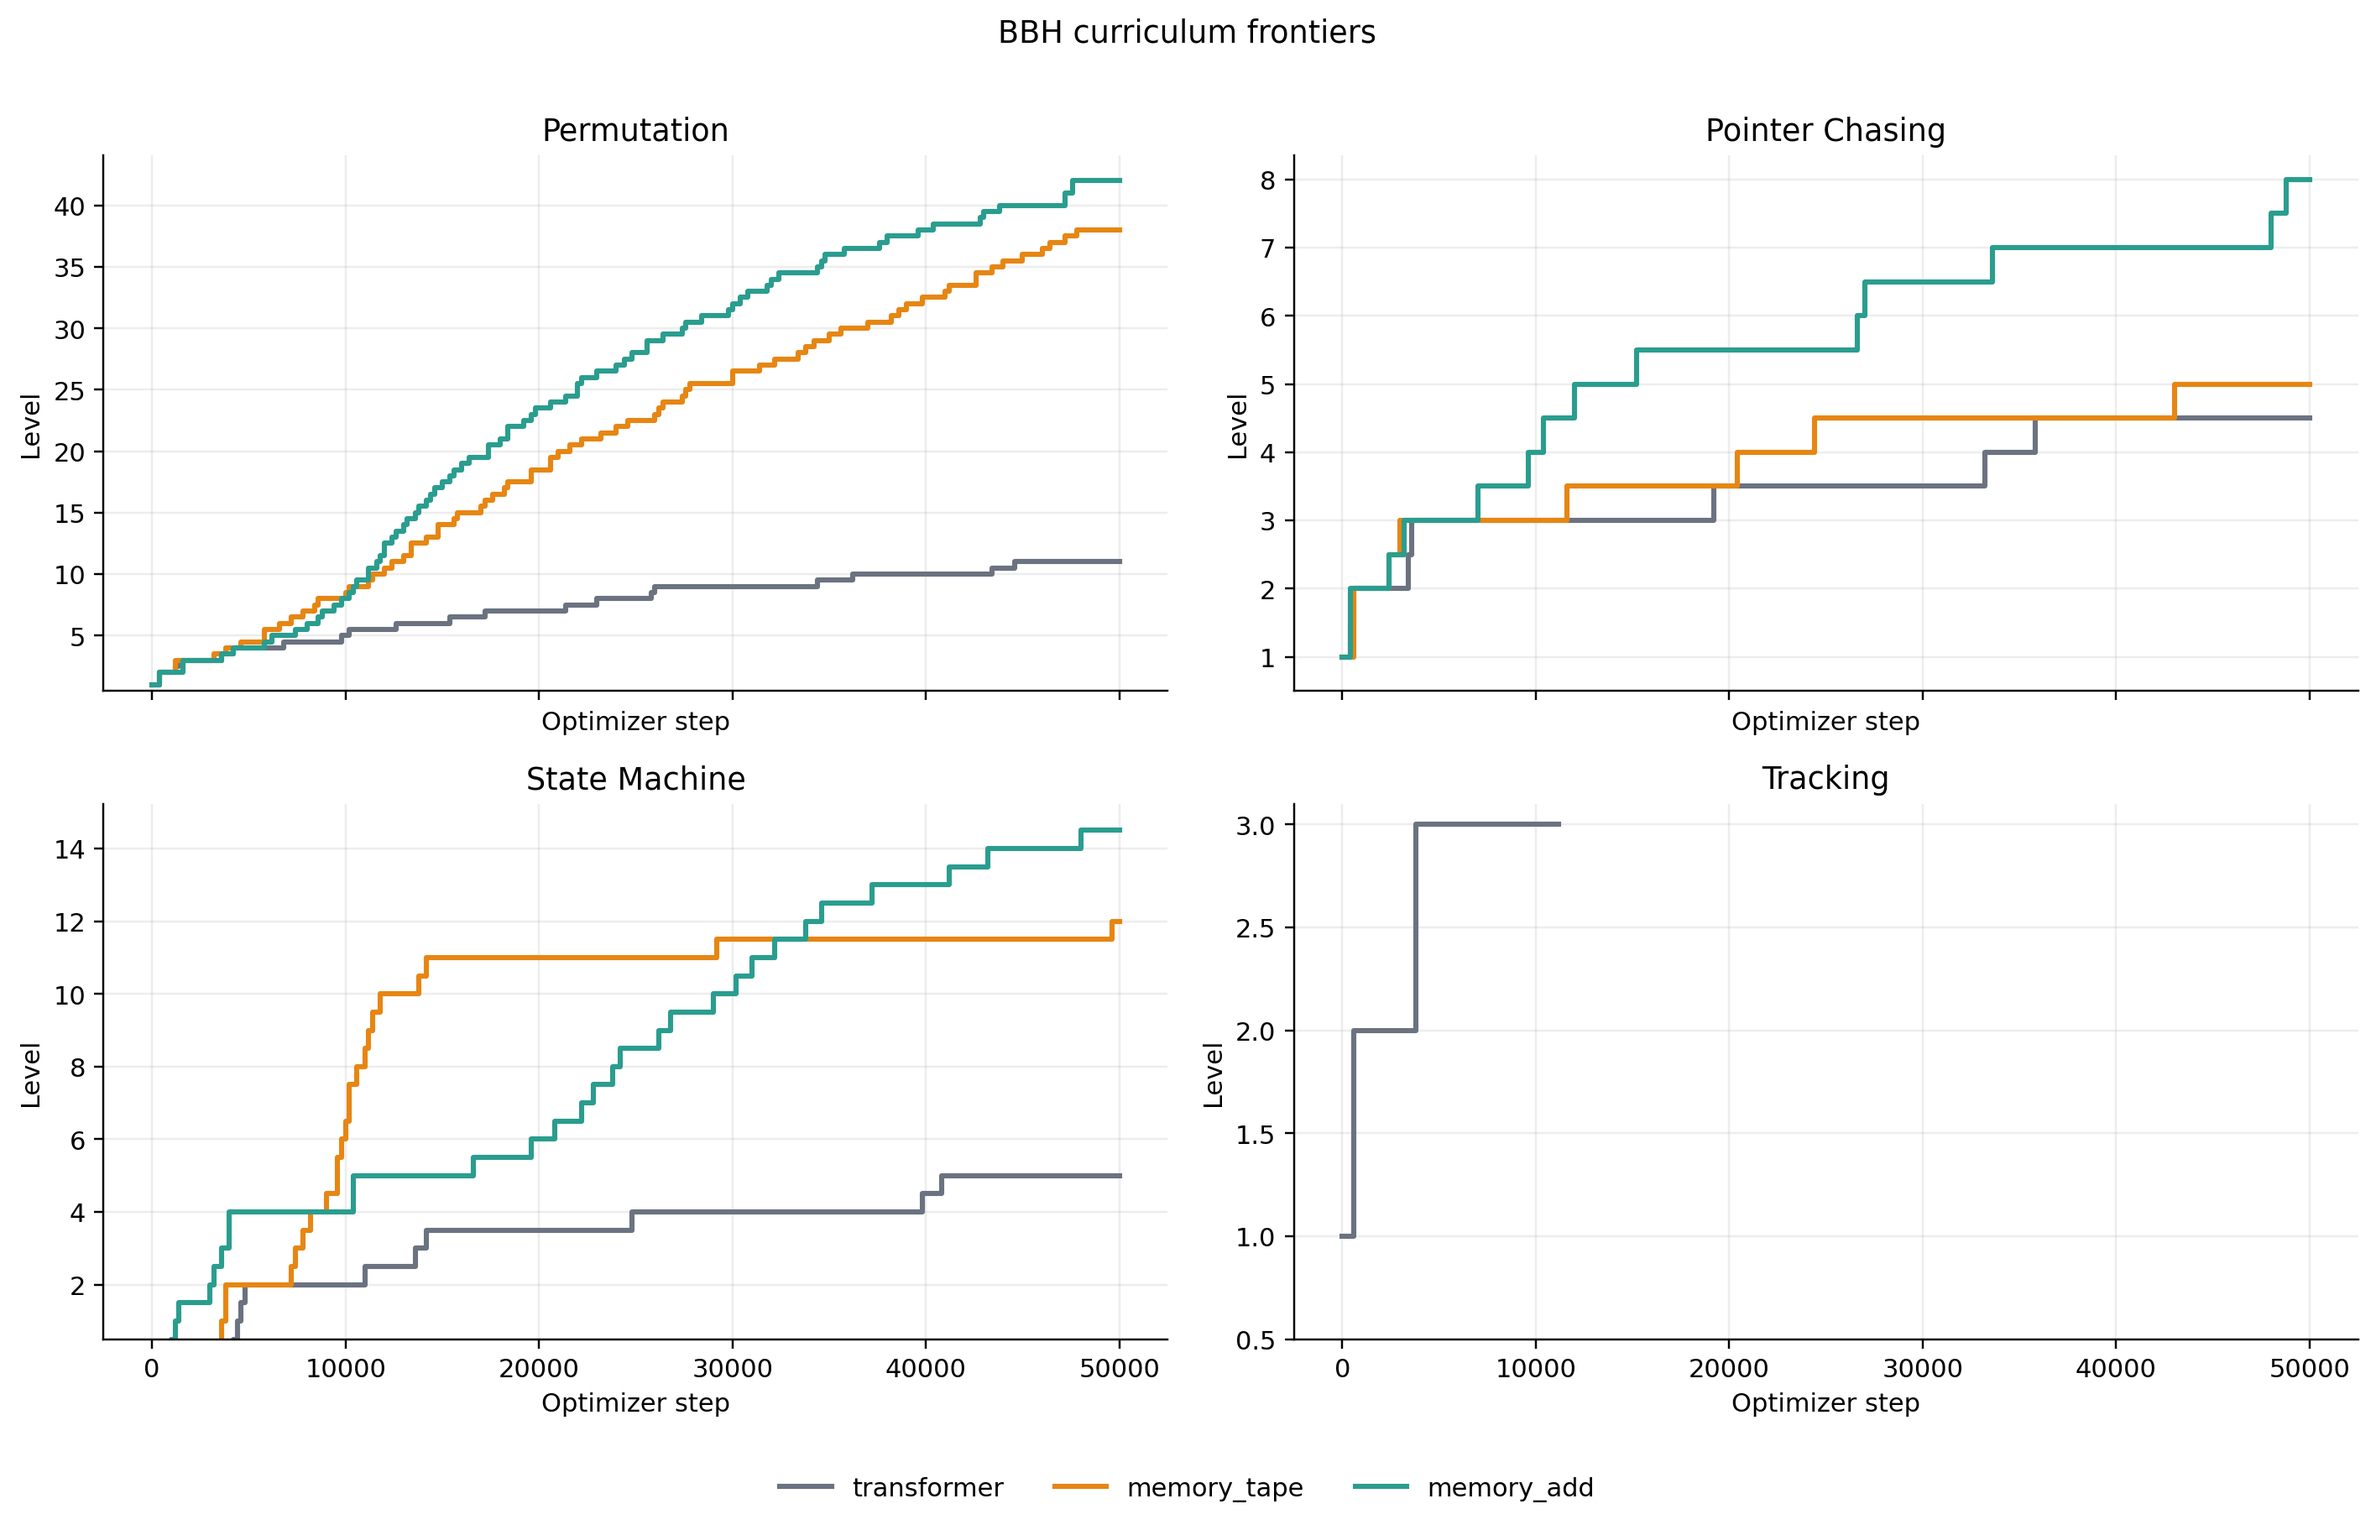
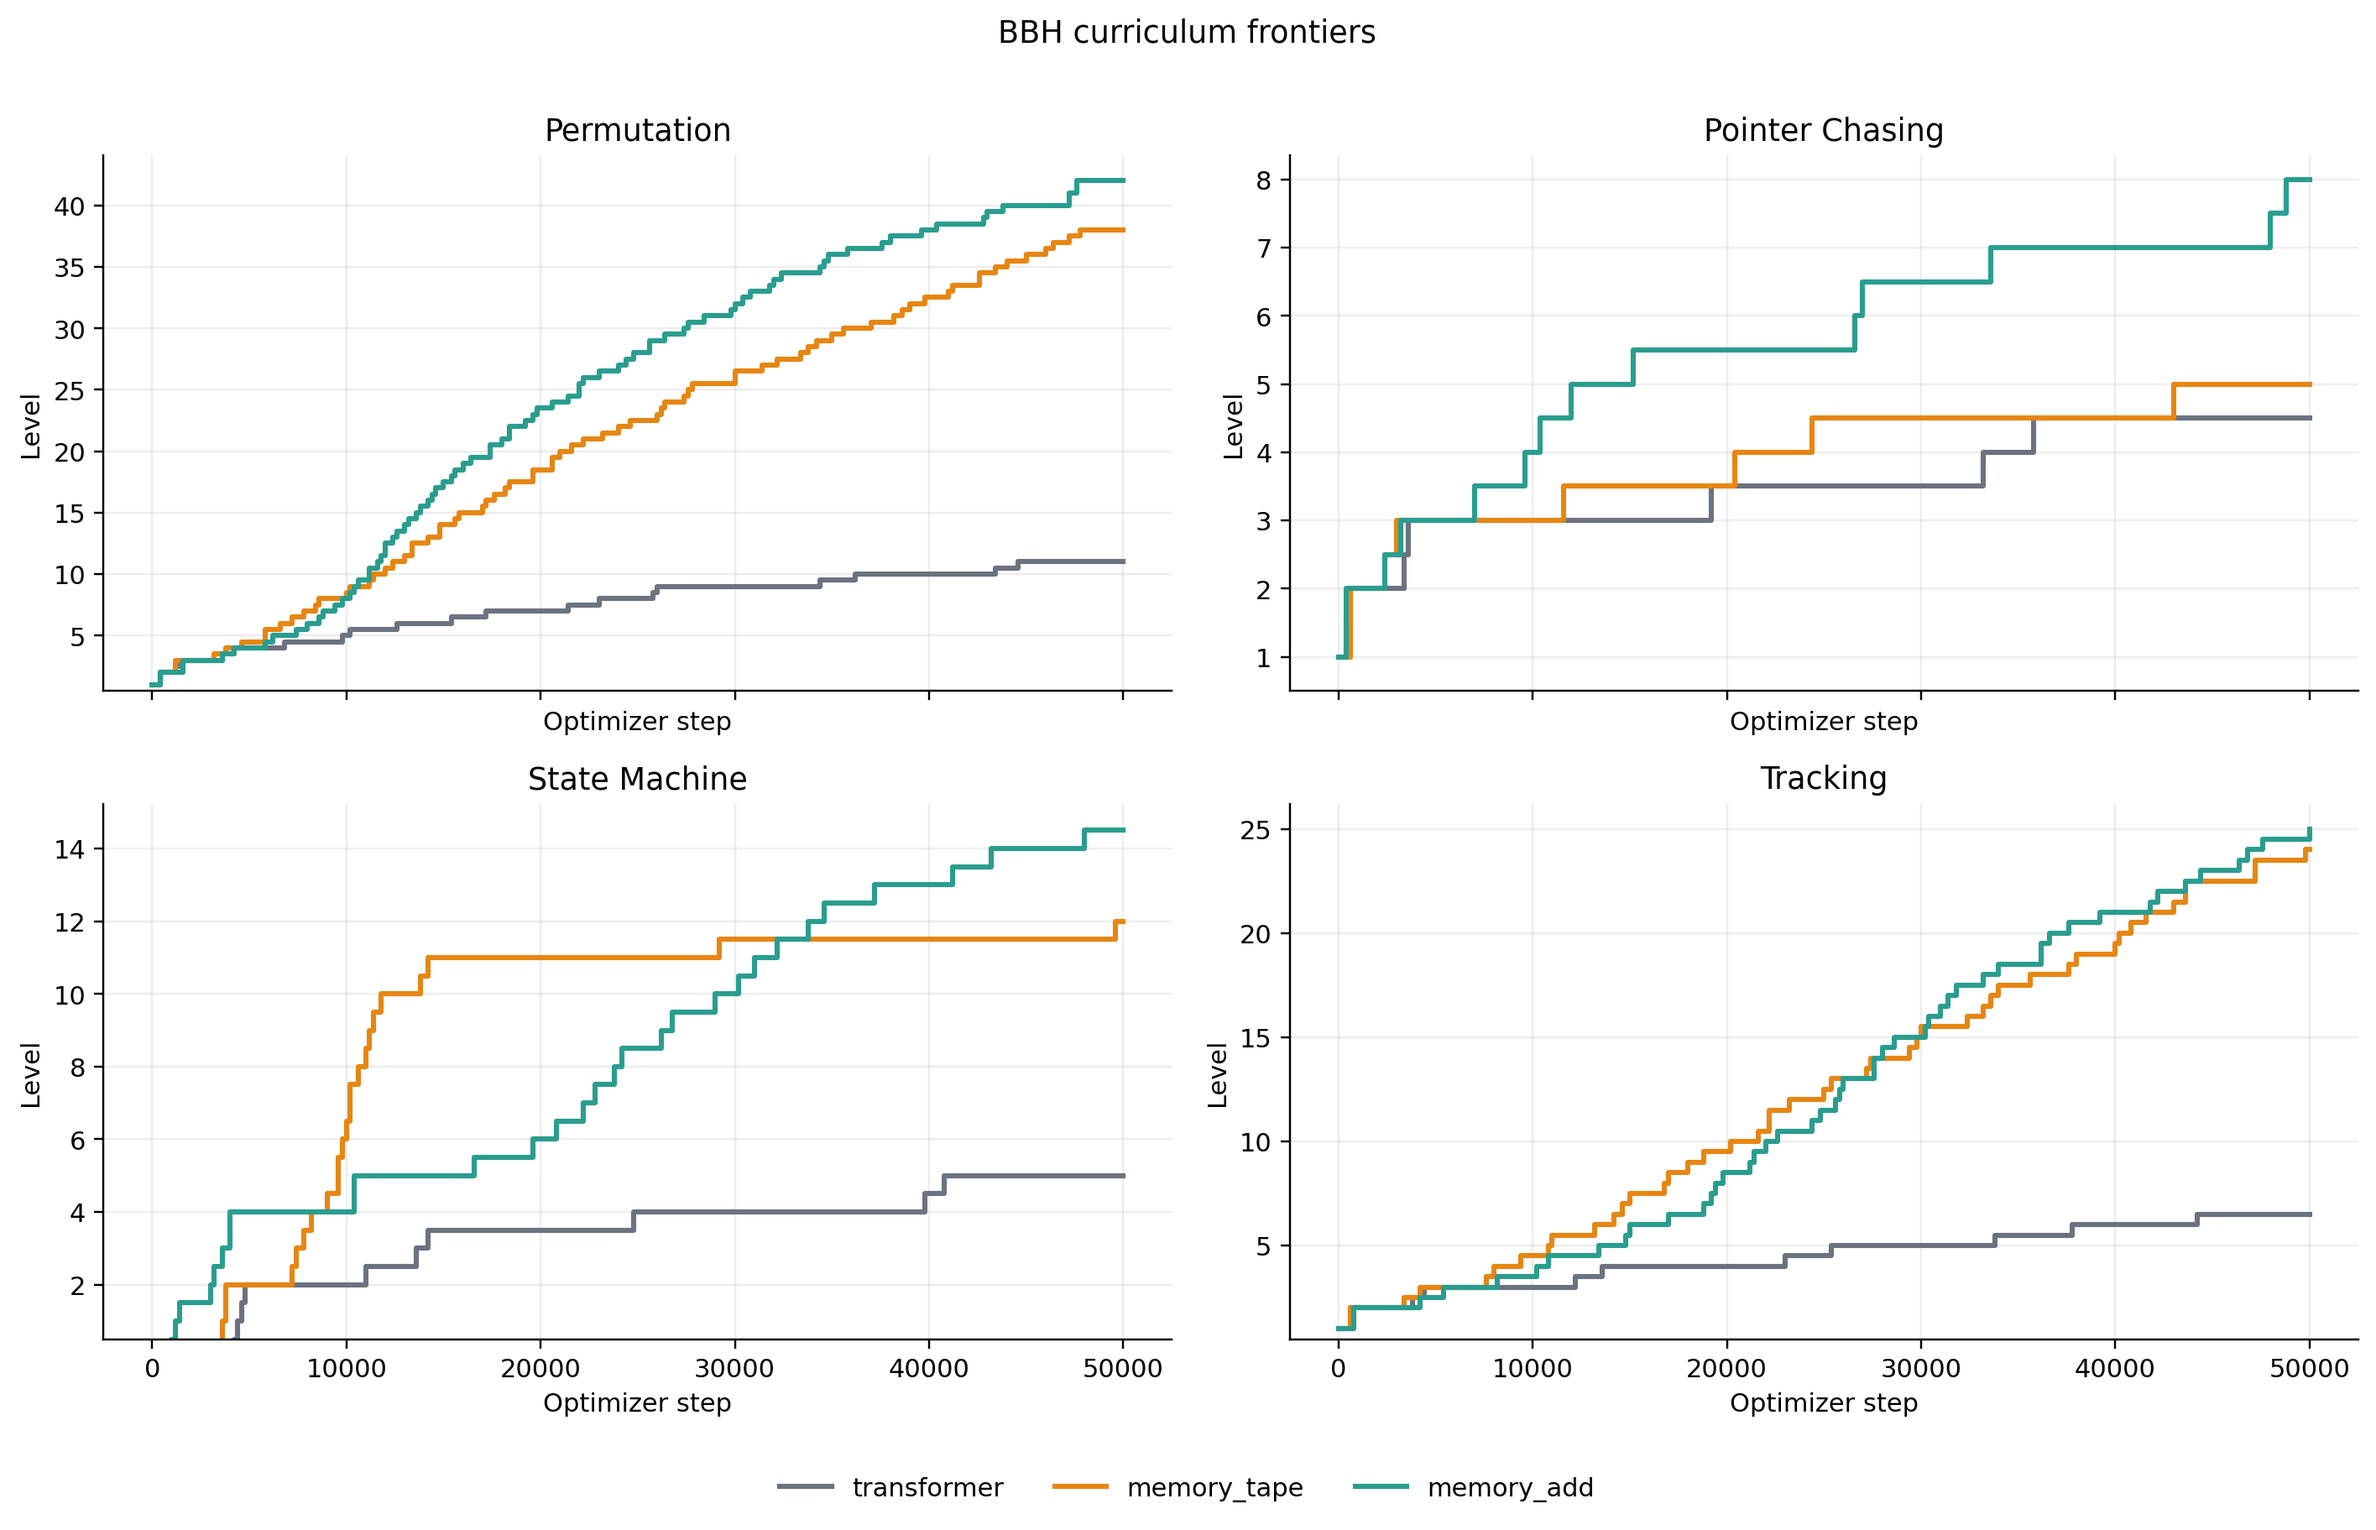
minor readme changes

diff --git a/README.md b/README.md
@@ -6,9 +6,9 @@ This project explores a way to train transformers for recurrent-style inference 
 > [*Full-bandwidth transformer*](https://arxiv.org/abs/2608.08888). The paper
 > independently develops the central multi-pass latent-feedback idea explored
 > here and validates it at much larger scale. It has stronger benchmarks and a
-> fuller analysis. If this repository interests you, read their paper first.
-> I am glad to see the idea work in the big leagues. This repository remains
-> a small testbed for explicit memory-tape variants and controlled state-tracking
+> fuller analysis. If this repository interests you, read their paper. I am 
+> glad to see the idea work in the big leagues. This repository remainsa small 
+> testbed for explicit memory-tape variants and controlled state-tracking
 > experiments.
 
 ## A Motivating Problem: State Tracking
